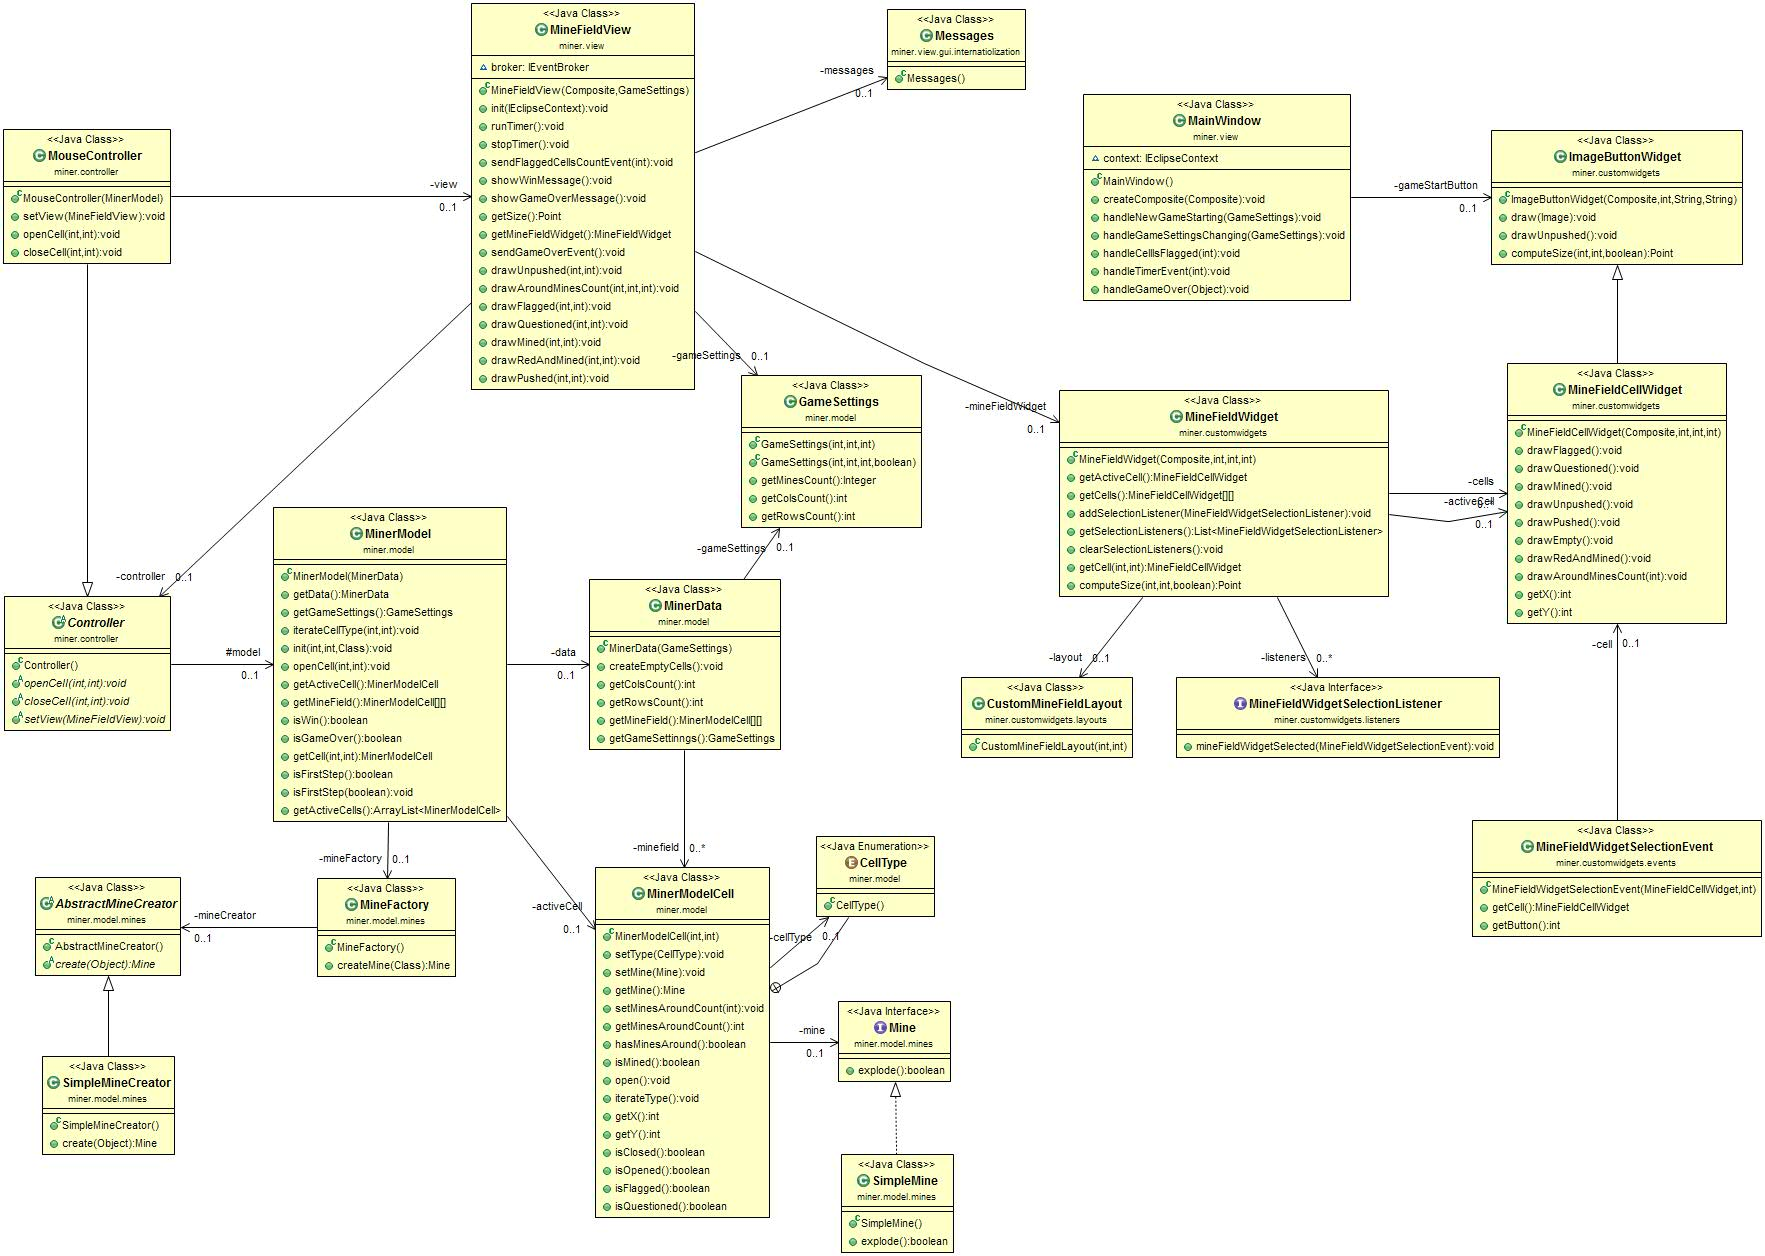
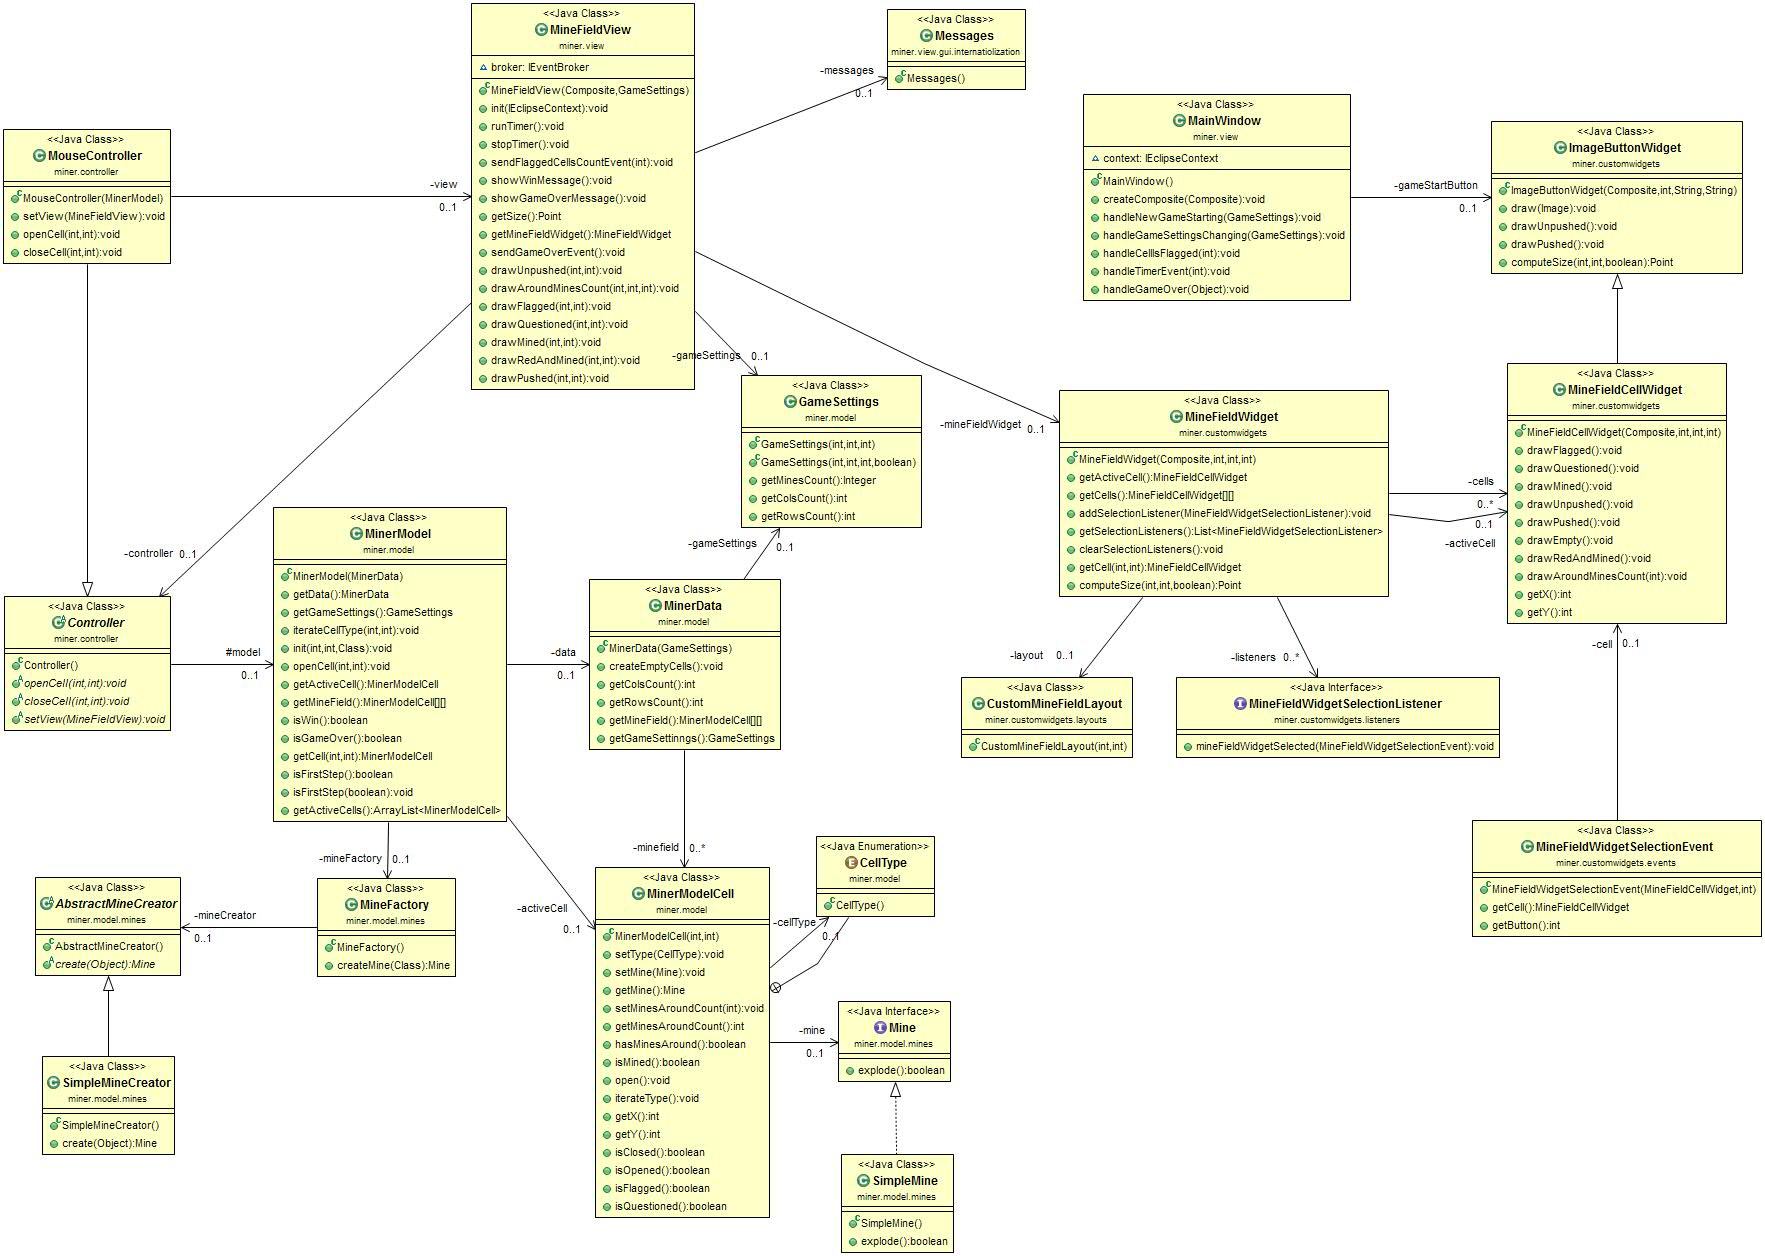
final changes

diff --git a/src/miner/customwidgets/ImageButtonWidget.java b/src/miner/customwidgets/ImageButtonWidget.java
@@ -116,6 +116,10 @@ public  class ImageButtonWidget extends Canvas {
     public void drawUnpushed() {
     	redraw(btnUnpushed);
     }
+    
+    public void drawPushed() {
+    	redraw(btnPushed);
+    }
   
     protected void redraw (Image image) {
 	    this.addPaintListener(new PaintListener() {
